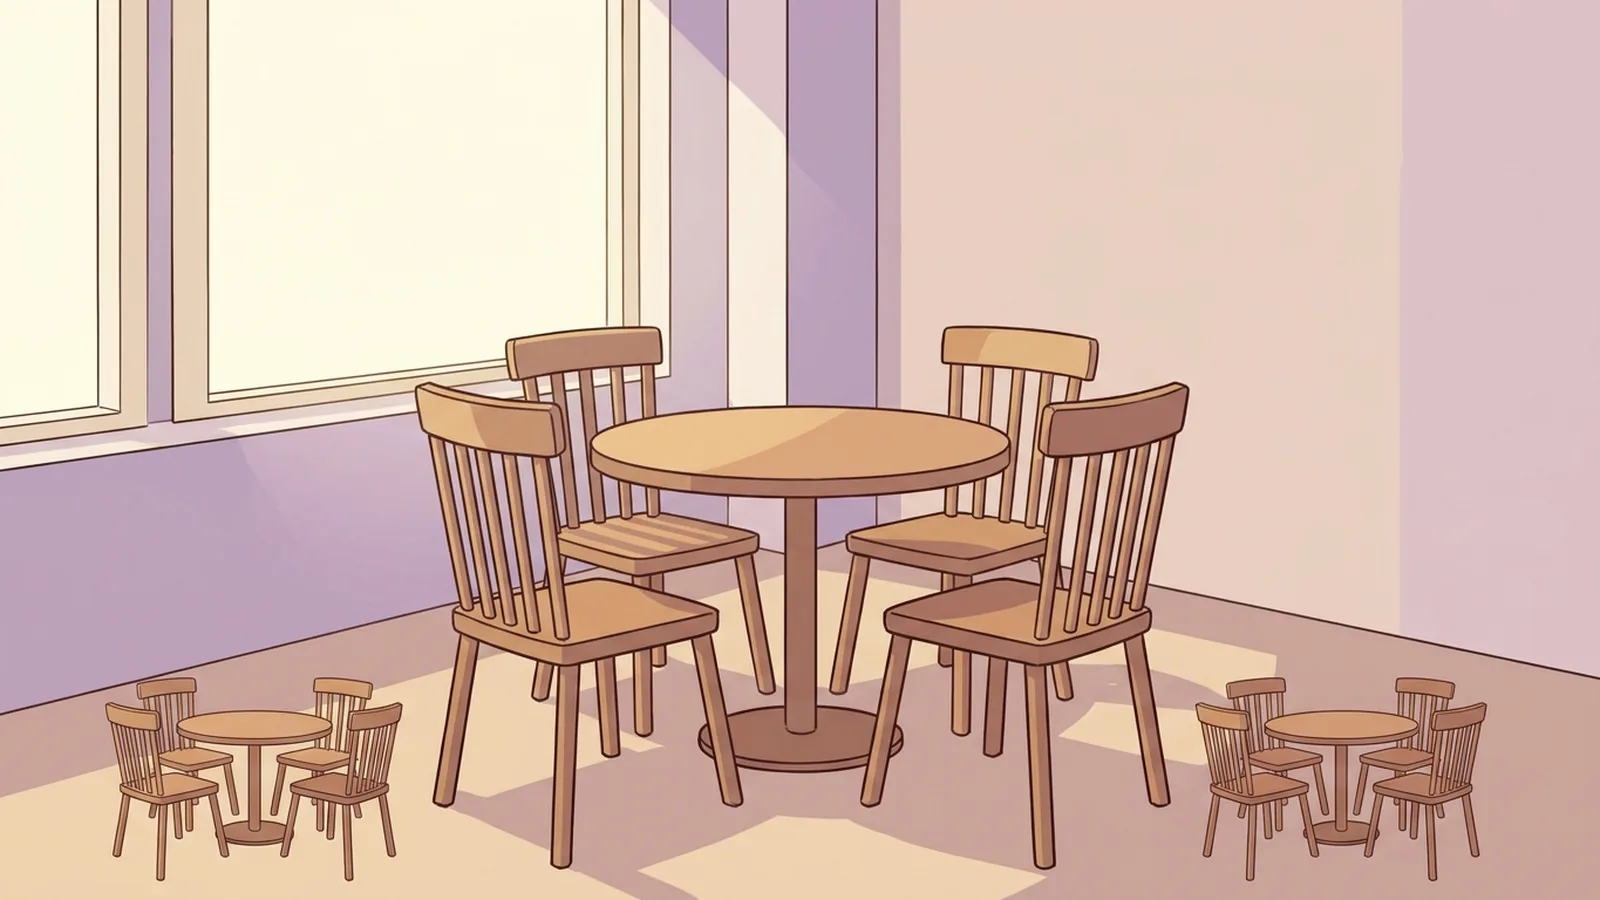
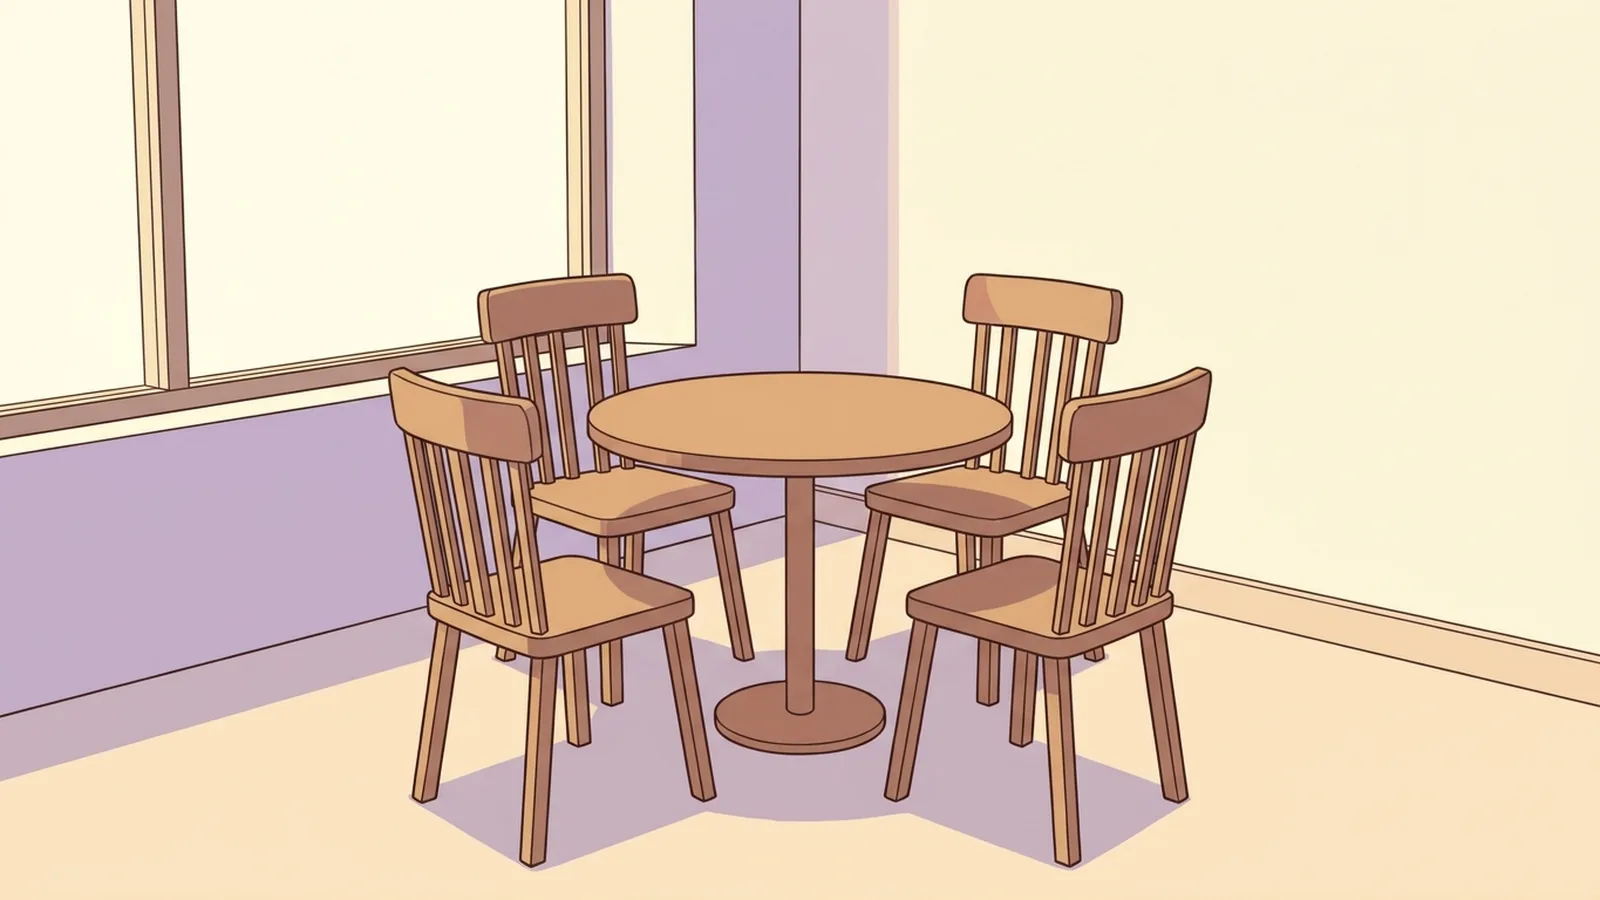
Unit 3: anh that cho cars, table moi va anh tong ket dang luoi; bo placeholder; kb/focus/alt_vi, credits, README; VERSION 28

diff --git a/data/l03-anim.js b/data/l03-anim.js
@@ -1,18 +1,17 @@
-/* TODO khi co anh that cho obj-cars va obj-outro: bo tien to "(Ảnh minh họa đang cập nhật)" trong alt_vi, them lai focus cua canh cars, bo placeholder:true.
- * l03-anim.js - du lieu hoat hinh anh tinh (v2, scenes) Unit 3: do vat va vi tri, khong co nguoi. Anh tam (placeholder), thay bang anh that roi bo placeholder. */
+/* l03-anim.js - du lieu hoat hinh anh tinh (v2, scenes) Unit 3: do vat va vi tri, khong co nguoi. Anh that do chu site tao (AI); anh tong ket ghep luoi bang tools/make-outro-grid.py. */
 window.BS_ANIMS = window.BS_ANIMS || {};
 window.BS_ANIMS.l03 = {
-  v: 2, kind: "scenes", id: "l03", placeholder: true,
+  v: 2, kind: "scenes", id: "l03",
   region_vi: "Hoạt hình mẹo đồ vật: is/are + V3 (trạng thái) và is/are + V-ing (tư thế)",
   formula: [["Đồ vật: "], ["is/are", "be"], [" + "], ["V3", "ing"], [" (stacked, parked)  |  "], ["is/are", "be"], [" + V-"], ["ing", "ing"], [" (leaning, hanging)"]],
   sr_tail_vi: "Đồ vật nằm yên thì dùng is hoặc are cộng quá khứ phân từ, như stacked, parked; một số vật dùng is hoặc are cộng động từ-ing để tả tư thế, như leaning, hanging.",
   img: { base: "assets/img/l03/scene/", hd: "assets/img-hd/l03/", w: [800, 1600], ratio: "16:9" },
   scenes: [
-    { id: "table", img: "obj-table", dur: 9, alt_vi: "Một góc quán cà phê có cửa sổ lớn, không có người. Bốn chiếc ghế gỗ được xếp quanh một chiếc bàn tròn ở giữa; ở hai góc dưới có hai bộ bàn ghế nhỏ hơn.",
+    { id: "table", img: "obj-table", dur: 9, alt_vi: "Một góc quán cà phê có cửa sổ lớn và hai bức tường, không có người. Chỉ có một chiếc bàn tròn ở giữa và bốn chiếc ghế gỗ được xếp quanh bàn.",
       en: "The chairs are arranged around a table.", vi: "Những cái ghế được sắp xếp quanh một cái bàn.",
       pieces: [["The chairs", ""], [" are", "be"], [" arrange", ""], ["d", "ing"], [" around a table.", ""]],
       note_vi: "The chairs + are; arrange + d = arranged (V3): trạng thái, không ai đang xếp",
-      kb: { from: [0.5, 0.5, 1.0], to: [0.5, 0.53, 1.06] }, focus: { x: 0.5, y: 0.52, r: 0.22, at: 2.5, label_vi: "quanh cái bàn" } },
+      kb: { from: [0.5, 0.5, 1.0], to: [0.5, 0.53, 1.06] }, focus: { x: 0.5, y: 0.5, r: 0.2, at: 2.5, label_vi: "quanh cái bàn" } },
     { id: "boxes", img: "obj-boxes", dur: 9, alt_vi: "Trong một phòng kho trống, một cái kệ kim loại bốn tầng; ba thùng giấy xếp chồng lên nhau ở trên cùng của kệ, không có người.",
       en: "Some boxes are stacked on a shelf.", vi: "Một vài cái thùng được xếp chồng trên kệ.",
       pieces: [["Some boxes", ""], [" are", "be"], [" stack", ""], ["ed", "ing"], [" on a shelf.", ""]],
@@ -23,11 +22,11 @@ window.BS_ANIMS.l03 = {
       pieces: [["A bicycle", ""], [" is", "be"], [" lean", ""], ["ing", "ing"], [" against the wall.", ""]],
       note_vi: "A bicycle + is (số ít); lean → leaning: tư thế dựa vào",
       kb: { from: [0.5, 0.5, 1.0], to: [0.58, 0.5, 1.08] }, focus: { x: 0.52, y: 0.52, r: 0.22, at: 2.5, label_vi: "dựa vào tường" } },
-    { id: "cars", img: "obj-cars", dur: 9, alt_vi: "(Ảnh minh họa đang cập nhật) Trên một con phố, nhiều xe hơi đậu nối đuôi nhau dọc theo mép đường, không có người.",
+    { id: "cars", img: "obj-cars", dur: 9, alt_vi: "Trên một con phố có dãy cửa hàng, bốn chiếc xe hơi nhỏ màu đỏ, xanh dương, xanh lá và vàng đậu thành một hàng thẳng sát mép vỉa hè, cùng quay đầu về một hướng, không có người.",
       en: "Cars are parked along the street.", vi: "Những chiếc xe hơi đang đậu dọc theo con đường.",
       pieces: [["Cars", ""], [" are", "be"], [" park", ""], ["ed", "ing"], [" along the street.", ""]],
       note_vi: "Cars + are; park + ed = parked: đang đậu (trạng thái); along = dọc theo",
-      kb: { from: [0.4, 0.5, 1.0], to: [0.55, 0.55, 1.2] } },  /* TODO anh that: them lai focus (vong nhan "đậu dọc đường") khi co anh obj-cars that */
+      kb: { from: [0.5, 0.5, 1.0], to: [0.5, 0.55, 1.04] }, focus: { x: 0.5, y: 0.56, r: 0.17, at: 2.5, label_vi: "đậu dọc đường" } },
     { id: "lamp", img: "obj-lamp", dur: 9, alt_vi: "Một chiếc đèn treo bằng dây từ trần nhà, ngay phía trên một chiếc bàn làm việc. Không có ai ở đó, trên bàn chỉ có một cuốn sổ và một cái cốc.",
       en: "A lamp is hanging above the desk.", vi: "Một cái đèn đang treo phía trên bàn làm việc.",
       pieces: [["A lamp", ""], [" is", "be"], [" hang", ""], ["ing", "ing"], [" above the desk.", ""]],
@@ -39,7 +38,7 @@ window.BS_ANIMS.l03 = {
       note_vi: "The books + are; line + d = lined (V3); lined up = xếp thành hàng",
       kb: { from: [0.4, 0.5, 1.0], to: [0.36, 0.5, 1.2] }, focus: { x: 0.34, y: 0.5, r: 0.2, at: 2.5, label_vi: "xếp thành hàng" } }
   ],
-  outro: { img: "obj-outro", dur: 2, alt_vi: "(Ảnh minh họa đang cập nhật) Ảnh ghép lưới 3x2 gồm sáu ô nhỏ: bàn ghế, thùng xếp chồng, xe đạp dựa tường, xe hơi đậu, đèn treo và kệ sách, không có người.", title_vi: "Tổng kết", segs: [
+  outro: { img: "obj-outro", dur: 2, alt_vi: "Ảnh ghép lưới 3x2 gồm sáu cảnh nhỏ, không có người: hàng trên là bàn tròn với bốn ghế, kệ kim loại có ba thùng xếp chồng, xe đạp dựa tường gạch; hàng dưới là bốn xe hơi đậu thành hàng, đèn treo phía trên bàn làm việc, kệ sách có một hàng sách.", title_vi: "Tổng kết", segs: [
     ["Ghi nhớ nhanh: đồ vật nằm yên thì dùng "], ["is/are", "be"], [" + "], ["V3", "ing"],
     [" (stacked, parked), hoặc "], ["is/are", "be"], [" + V-"], ["ing", "ing"],
     [" tả tư thế (leaning, hanging). Ảnh không có người thì loại câu nhắc đến người, và cẩn thận với is being + V3 (trừ being displayed)."]

diff --git a/sw.js b/sw.js
@@ -3,10 +3,10 @@
  * Không gửi dữ liệu đi đâu, không đụng request khác nguồn, không đụng localStorage.
  * Mỗi lần deploy có file precache đổi: sửa VERSION rồi chạy `node tools/check-sw.mjs --write`.
  */
-// content-hash: 27@e5f8d5a055508c44
+// content-hash: 28@220c585c0d761dfa
 "use strict";
 
-var VERSION = "27";
+var VERSION = "28";
 var PREFIX = "tb-";
 var CACHE = PREFIX + VERSION;
 var NAV_TIMEOUT = 3000;

diff --git a/CREDITS-IMAGES.md b/CREDITS-IMAGES.md
@@ -20,9 +20,9 @@ Files are produced with `tools/compose-scenes.py` (cut-outs + drawn backgrounds,
 1600x900) and `tools/make-scenes.py` (resized to 800x450 and 1600x900, WebP,
 metadata stripped). This file is not precached by the service worker.
 
-The Unit 3 and Unit 4 scene images are whole AI-generated pictures made by the site owner (Unit 3: except the placeholders obj-cars and obj-outro, see the status paragraph below), not cut-out composites of separate parts.
+The Unit 3 and Unit 4 scene images are whole AI-generated pictures made by the site owner, not cut-out composites of separate parts. The Unit 3 and Unit 4 outro pictures are 3x2 grids of the six scenes of the unit, composed by `tools/make-outro-grid.py`.
 
-Status: Unit 1 and Unit 2 scene images are final art (date 2026-11-19). The Unit 2 SVG exercise pictures are original flat vector drawings. Unit 3 scene images obj-table, obj-boxes, obj-bike, obj-lamp and obj-books (assets/img/l03/scene, assets/img-hd/l03) are final art generated by the site owner (original objects and settings, date 2026-11-19). obj-cars and the outro obj-outro (a 3x2 grid of the six scenes, to be built with tools/make-outro-grid.py) are still temporary PLACEHOLDERS (gradient plus scene name, no artwork) until the owner supplies a new cars image; check-units --release fails while data/l03-anim.js has placeholder: true. The Unit 3 SVG exercise pictures are original flat vector drawings. Unit 4 scene images (assets/img/l04/scene, assets/img-hd/l04) are final art (date 2026-11-19): the six scenes are whole AI-generated original scenery pictures made by the site owner (no people, no text, no third-party artwork), and the outro grid scn-outro is composed from those six pictures by tools/make-outro-grid.py. The Unit 4 SVG exercise pictures are original flat vector drawings.
+Status: Unit 1 and Unit 2 scene images are final art (date 2026-11-19). The Unit 2 SVG exercise pictures are original flat vector drawings. Unit 3 scene images (assets/img/l03/scene, assets/img-hd/l03) are final art (date 2026-11-21): the six scenes obj-table, obj-boxes, obj-bike, obj-cars, obj-lamp and obj-books are whole AI-generated pictures made by the site owner (original objects and settings), and the outro obj-outro is a 3x2 grid of those six scenes composed by tools/make-outro-grid.py. No unit has placeholder images or placeholder text left. The Unit 3 SVG exercise pictures are original flat vector drawings. Unit 4 scene images (assets/img/l04/scene, assets/img-hd/l04) are final art (date 2026-11-19): the six scenes are whole AI-generated original scenery pictures made by the site owner (no people, no text, no third-party artwork), and the outro grid scn-outro is composed from those six pictures by tools/make-outro-grid.py. The Unit 4 SVG exercise pictures are original flat vector drawings.
 
 | file | tool | date | notes |
 |---|---|---|---|
@@ -61,20 +61,20 @@ Status: Unit 1 and Unit 2 scene images are final art (date 2026-11-19). The Unit
 | assets/img/l02/mc2.svg | vector illustration drawn by the site owner's tooling (flat shapes, no third-party artwork) | 2026-11-19 | Unit 2, exercise/game picture |
 | assets/img/l02/mc3.svg | vector illustration drawn by the site owner's tooling (flat shapes, no third-party artwork) | 2026-11-19 | Unit 2, exercise/game picture |
 | assets/img/l02/mc4.svg | vector illustration drawn by the site owner's tooling (flat shapes, no third-party artwork) | 2026-11-19 | Unit 2, exercise/game picture |
-| assets/img/l03/scene/obj-table-800.webp | AI-generated by the site owner (original objects and settings); resized by tools/make-scenes.py | 2026-11-19 | Unit 3, scene obj-table, 800x450 |
-| assets/img-hd/l03/obj-table-1600.webp | AI-generated by the site owner (original objects and settings); resized by tools/make-scenes.py | 2026-11-19 | Unit 3, scene obj-table, 1600x900 |
+| assets/img/l03/scene/obj-table-800.webp | AI-generated by the site owner (original objects and settings); resized by tools/make-scenes.py | 2026-11-21 | Unit 3, scene obj-table, 800x450 |
+| assets/img-hd/l03/obj-table-1600.webp | AI-generated by the site owner (original objects and settings); resized by tools/make-scenes.py | 2026-11-21 | Unit 3, scene obj-table, 1600x900 |
 | assets/img/l03/scene/obj-boxes-800.webp | AI-generated by the site owner (original objects and settings); resized by tools/make-scenes.py | 2026-11-19 | Unit 3, scene obj-boxes, 800x450 |
 | assets/img-hd/l03/obj-boxes-1600.webp | AI-generated by the site owner (original objects and settings); resized by tools/make-scenes.py | 2026-11-19 | Unit 3, scene obj-boxes, 1600x900 |
 | assets/img/l03/scene/obj-bike-800.webp | AI-generated by the site owner (original objects and settings); resized by tools/make-scenes.py | 2026-11-19 | Unit 3, scene obj-bike, 800x450 |
 | assets/img-hd/l03/obj-bike-1600.webp | AI-generated by the site owner (original objects and settings); resized by tools/make-scenes.py | 2026-11-19 | Unit 3, scene obj-bike, 1600x900 |
-| assets/img/l03/scene/obj-cars-800.webp | placeholder (gradient and scene name drawn by tools/make-scenes.py --placeholder; no artwork) | 2026-11-19 | Unit 3, scene obj-cars, 800x450, placeholder until final art |
-| assets/img-hd/l03/obj-cars-1600.webp | placeholder (gradient and scene name drawn by tools/make-scenes.py --placeholder; no artwork) | 2026-11-19 | Unit 3, scene obj-cars, 1600x900, placeholder until final art |
+| assets/img/l03/scene/obj-cars-800.webp | AI-generated by the site owner (original objects and settings); resized by tools/make-scenes.py | 2026-11-21 | Unit 3, scene obj-cars, 800x450 |
+| assets/img-hd/l03/obj-cars-1600.webp | AI-generated by the site owner (original objects and settings); resized by tools/make-scenes.py | 2026-11-21 | Unit 3, scene obj-cars, 1600x900 |
 | assets/img/l03/scene/obj-lamp-800.webp | AI-generated by the site owner (original objects and settings); resized by tools/make-scenes.py | 2026-11-19 | Unit 3, scene obj-lamp, 800x450 |
 | assets/img-hd/l03/obj-lamp-1600.webp | AI-generated by the site owner (original objects and settings); resized by tools/make-scenes.py | 2026-11-19 | Unit 3, scene obj-lamp, 1600x900 |
 | assets/img/l03/scene/obj-books-800.webp | AI-generated by the site owner (original objects and settings); resized by tools/make-scenes.py | 2026-11-19 | Unit 3, scene obj-books, 800x450 |
 | assets/img-hd/l03/obj-books-1600.webp | AI-generated by the site owner (original objects and settings); resized by tools/make-scenes.py | 2026-11-19 | Unit 3, scene obj-books, 1600x900 |
-| assets/img/l03/scene/obj-outro-800.webp | placeholder (gradient and scene name drawn by tools/make-scenes.py --placeholder; no artwork) | 2026-11-19 | Unit 3, outro obj-outro, 800x450, placeholder until final art |
-| assets/img-hd/l03/obj-outro-1600.webp | placeholder (gradient and scene name drawn by tools/make-scenes.py --placeholder; no artwork) | 2026-11-19 | Unit 3, outro obj-outro, 1600x900, placeholder until final art |
+| assets/img/l03/scene/obj-outro-800.webp | composed by tools/make-outro-grid.py from the six Unit 3 scenes (AI-generated by the site owner); resized by tools/make-scenes.py | 2026-11-21 | Unit 3, outro obj-outro, 800x450 |
+| assets/img-hd/l03/obj-outro-1600.webp | composed by tools/make-outro-grid.py from the six Unit 3 scenes (AI-generated by the site owner); resized by tools/make-scenes.py | 2026-11-21 | Unit 3, outro obj-outro, 1600x900 |
 | assets/img/l03/focus.svg | vector illustration drawn by the site owner's tooling (flat shapes, no third-party artwork) | 2026-11-19 | Unit 3, exercise/game picture |
 | assets/img/l03/tf1.svg | vector illustration drawn by the site owner's tooling (flat shapes, no third-party artwork) | 2026-11-19 | Unit 3, exercise/game picture |
 | assets/img/l03/tf2.svg | vector illustration drawn by the site owner's tooling (flat shapes, no third-party artwork) | 2026-11-19 | Unit 3, exercise/game picture |

diff --git a/README.md b/README.md
@@ -46,7 +46,7 @@ Bản hiện tại có `VERSION` là `4` (thêm hoạt hình theo dữ liệu, l
 3. Chạy `node tools/check-sw.mjs` (phải ra "đạt", exit 0), `node tools/test-sw.mjs`, `node tools/check-units.mjs`.
 4. Thêm/bớt file CSS hoặc JS dùng chung, hoặc thêm unit `available: true`: cập nhật danh sách `PRECACHE` trong `sw.js` (check-sw báo thiếu/thừa theo thư mục và catalog). Hoạt hình, dữ liệu và hình của unit chưa `available` không vào PRECACHE.
 5. Trước khi phát hành lần đầu: đặt `LEGACY_ANCHOR` trong `assets/js/srs.js` bằng ngày deploy thật (không để giá trị tạm).
-6. Trước khi deploy lên https: chạy `node tools/check-units.mjs --release`. Lệnh này cố ý báo lỗi khi còn unit có `placeholder: true` (hiện là Unit 3: cảnh `obj-cars` và ảnh tổng kết `obj-outro` còn là ảnh tạm). Chưa được deploy cho đến khi chủ site thay ảnh thật và bỏ `placeholder: true`, hoặc chủ site chủ động bỏ qua cổng này (ghi lại quyết định đó).
+6. Trước khi deploy lên https: chạy `node tools/check-units.mjs --release`. Lệnh này cố ý báo lỗi khi còn unit có `placeholder: true` (dữ liệu hoặc ảnh tạm), để không deploy nhầm ảnh tạm. Hiện không unit nào còn placeholder nên lệnh phải ra exit 0; nếu sau này có unit mới dùng `placeholder: true`, không được deploy cho đến khi thay ảnh thật và bỏ `placeholder: true`, hoặc chủ site chủ động bỏ qua cổng này (ghi lại quyết định đó).
 7. Đổi icon: sửa `tools/make-icons.py` rồi chạy `python tools/make-icons.py`.
 
 `_headers` (Cloudflare Pages) đặt noindex, nosniff, Referrer-Policy no-referrer và không cho cache `sw.js`. Chưa có CSP. Sau khi deploy, kiểm bằng `curl -I`: `/sw.js` có `Cache-Control: no-cache`, `/manifest.webmanifest` trả `Content-Type: application/manifest+json` (hoặc JSON), các trang có `X-Robots-Tag`.
